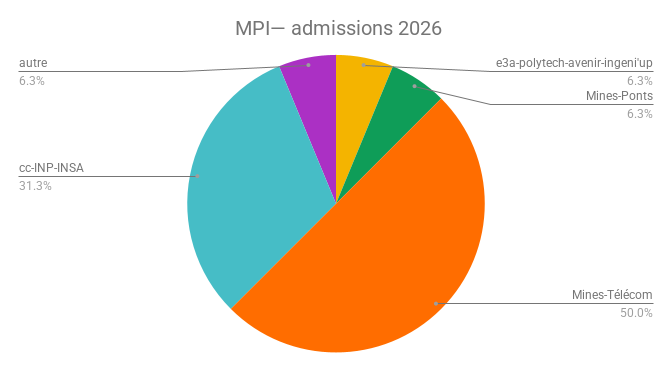
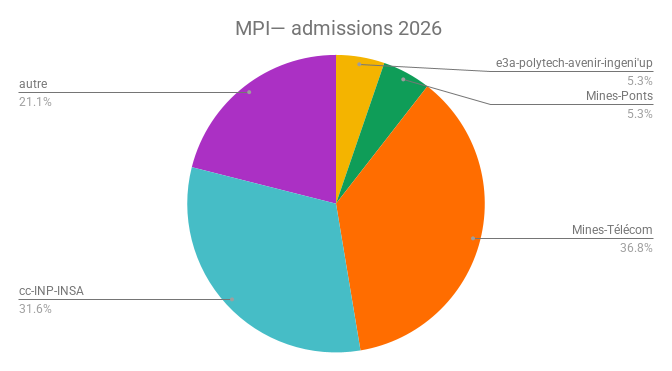
résultats

diff --git a/docs/orga/0_intro.md b/docs/orga/0_intro.md
@@ -10,6 +10,8 @@ sidebar_label: Emploi du temps
 
 - L'[emploi du temps](https://docs.google.com/spreadsheets/d/e/2PACX-1vS-ppiF3kKnXmENWQLQpDe3BKJFvrjyzfgG0-VDzipfNWGo-Ozry_O8EccssJpZF0K_M_gIGjyNK9ax/pub?output=pdf)
 
+- Le [planning des devoirs](https://docs.google.com/spreadsheets/d/e/2PACX-1vQJ6xwT9lbISlws_xwT9BhFymGvPNsZjoiYCDWmPtXrQLozKtQCMwuxXtFbl4MTRzOvWsQHZBYYWPLf/pub?output=pdf)
+
 ### Documents d'information 
 
 - Les [coefficients aux concours](https://docs.google.com/spreadsheets/d/e/2PACX-1vRJw73Hi81u6bFUAYMBH5CtydcVtcj6mt2Ah30TuyQEGA6kCZEwDsogIzeAFjVgfY1EJCg9d-XJsb2g/pubhtml)
